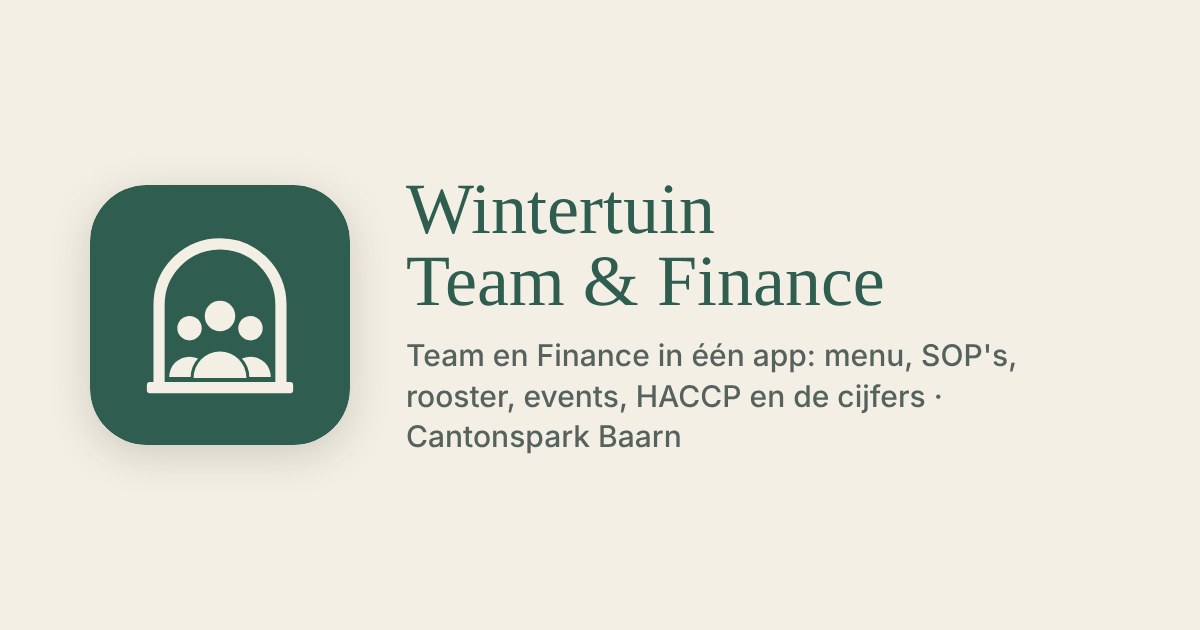
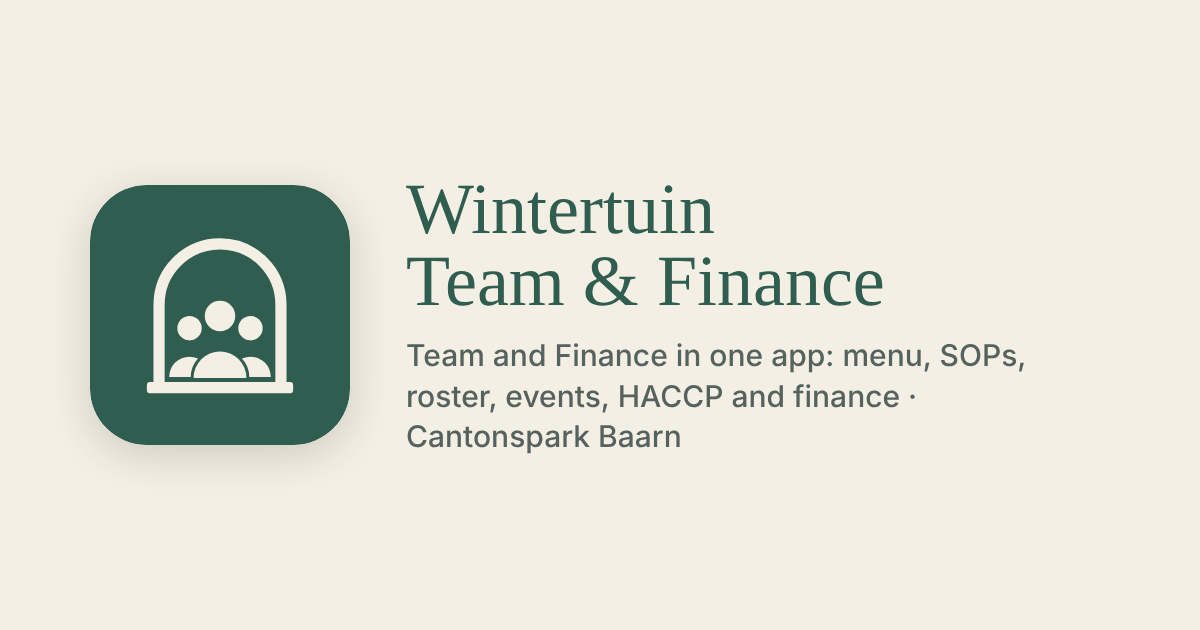
Link preview in English
Claude-Session: https://claude.ai/code/session_01D7jxXBmyUdyZTLV2ctBv7E

Changed region(s): [[0.37, 0.5429, 0.8633, 0.6635]]

diff --git a/index.html b/index.html
@@ -5,12 +5,12 @@
   <meta name="viewport" content="width=device-width, initial-scale=1, viewport-fit=cover">
   <meta name="theme-color" content="#2F5D50">
   <title>Wintertuin Team</title>
-  <meta name="description" content="De Team-app en Finance van de Wintertuin in Baarn: menu, SOP's, rooster, events, HACCP en de cijfers. Eén login voor allebei.">
+  <meta name="description" content="The Wintertuin Team app and Finance, Baarn: menu, SOPs, roster, events, HACCP and finance. One login for both.">
   <!-- link preview in WhatsApp, iMessage, Slack: title, text and picture -->
   <meta property="og:type" content="website">
   <meta property="og:site_name" content="Wintertuin">
   <meta property="og:title" content="Wintertuin Team &amp; Finance">
-  <meta property="og:description" content="De Team-app en Finance van de Wintertuin in Baarn: menu, SOP's, rooster, events, HACCP en de cijfers. Eén login voor allebei.">
+  <meta property="og:description" content="The Wintertuin Team app and Finance, Baarn: menu, SOPs, roster, events, HACCP and finance. One login for both.">
   <meta property="og:url" content="https://joost1305.github.io/wintertuin-staff-app/">
   <meta property="og:image" content="https://joost1305.github.io/wintertuin-staff-app/img/og-image.png">
   <meta property="og:image:width" content="1200">
